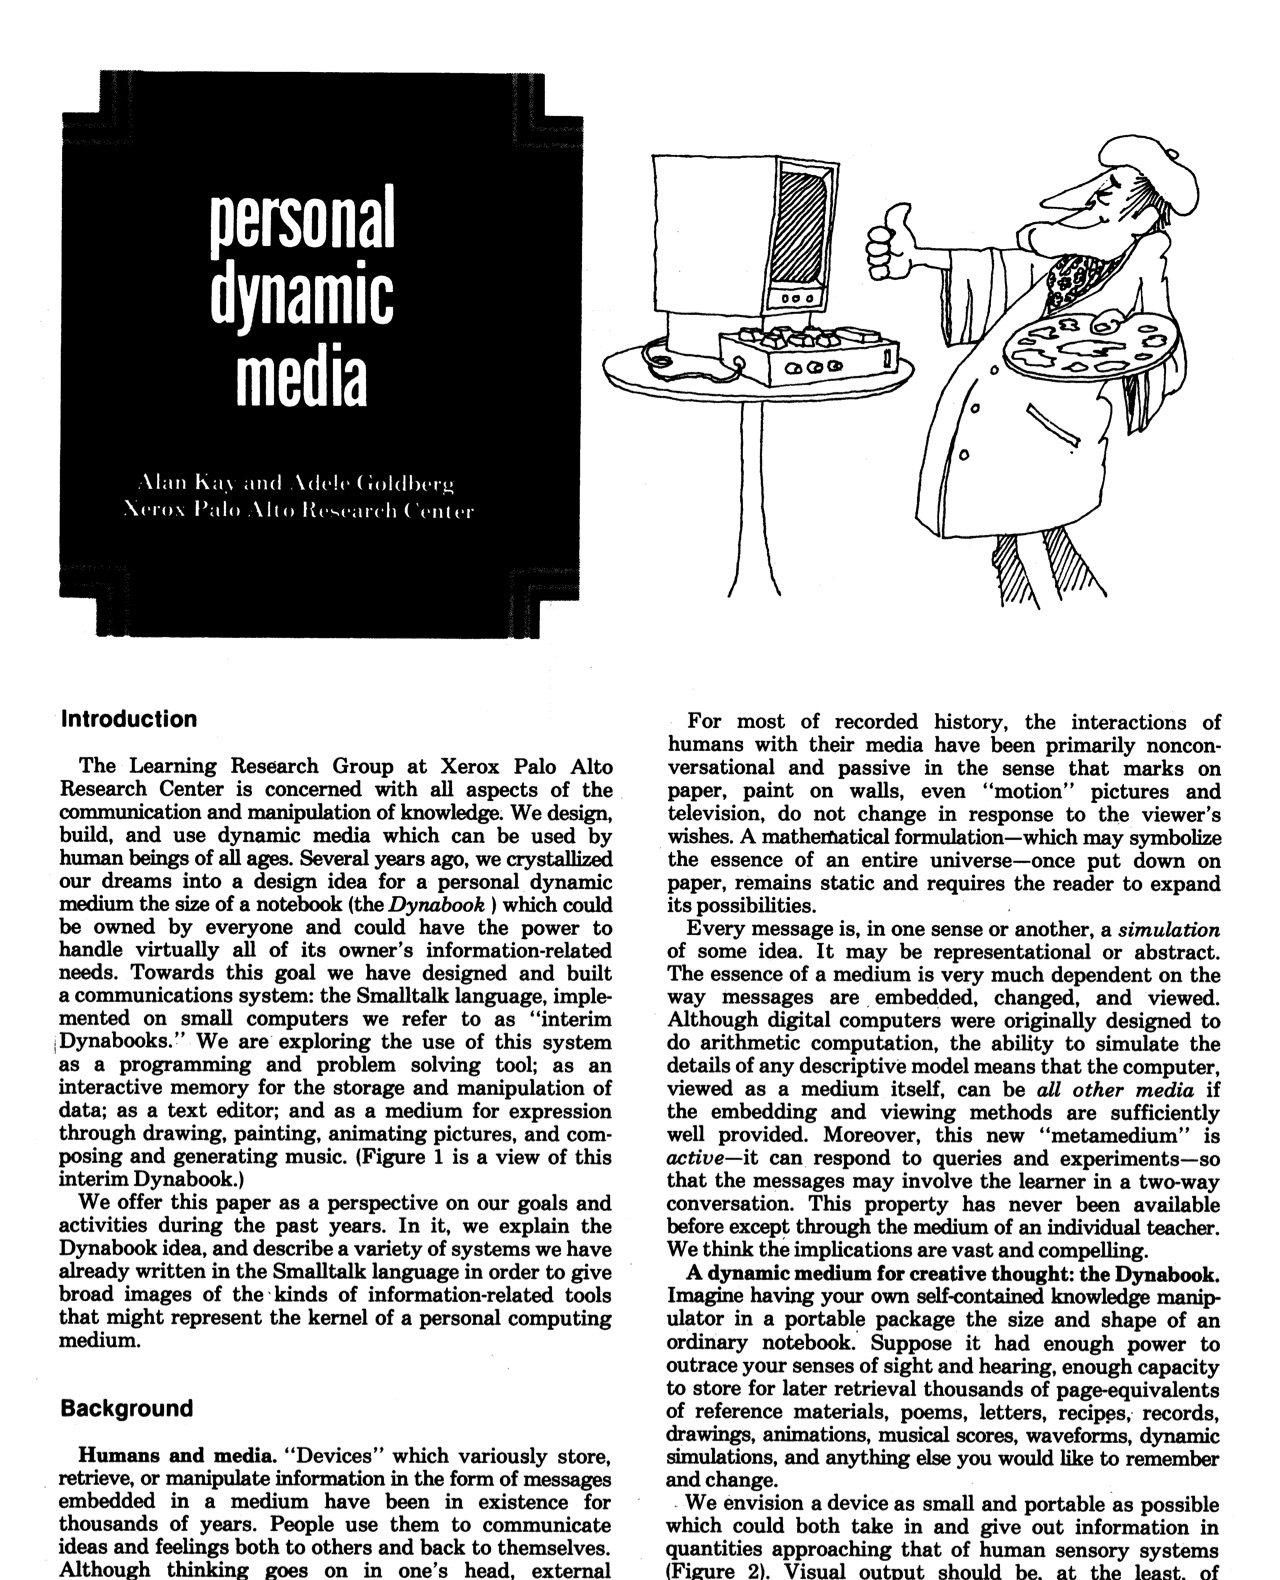
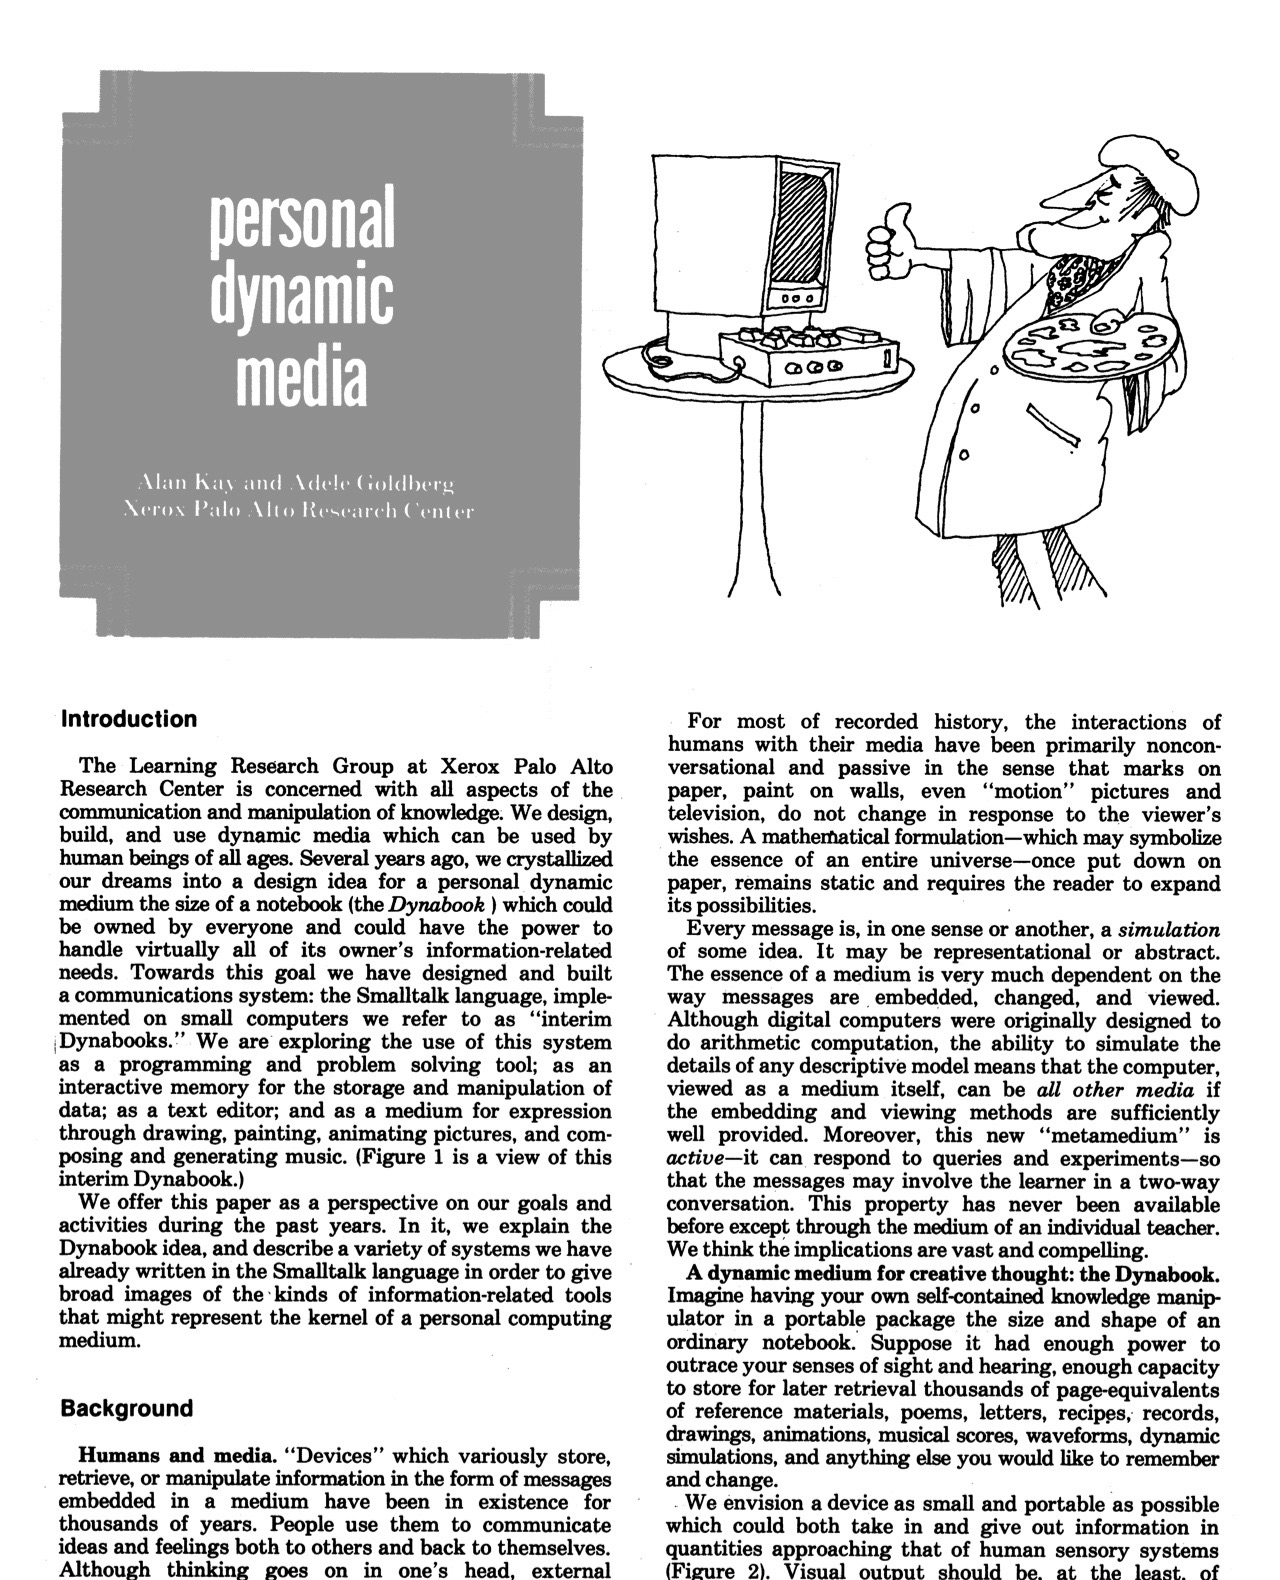
site: a github button, a softer title block, and an ending on download

Changed region(s): [[0.0312, 0.031, 0.4688, 0.4032]]

diff --git a/site/index.html b/site/index.html
@@ -4,7 +4,7 @@
 <meta charset="utf-8">
 <meta name="viewport" content="width=device-width, initial-scale=1">
 <title>Fairy Cursor</title>
-<meta name="description" content="A little fairy for your Mac's cursor. It carries your screenshots, takes notes and records your screen.">
+<meta name="description" content="A cursor that helps with little things on your Mac. It carries your screenshots, takes notes and records your screen.">
 <link rel="icon" href="icon.png">
 <style>
 /* An empty page, one cursor, and a real piece of screen to work on: part of an article that
@@ -28,7 +28,11 @@ a:focus-visible { outline: 2px solid var(--ink); outline-offset: 3px; border-rad
 .top img { width: 24px; height: 24px; }
 .top .name { font-size: 14px; font-weight: 600; letter-spacing: -0.01em; margin-right: auto; }
 .get { font-size: 13px; font-weight: 500; color: #fff; background: var(--ink); padding: 7px 15px; border-radius: 999px; transition: opacity .16s ease; }
-.get:hover { opacity: .82; }
+.get:hover, .get.hover { opacity: .82; }
+/* The source: the quieter button, always after Download. */
+.gh { display: inline-flex; align-items: center; gap: 6px; font-size: 13px; font-weight: 500; color: var(--ink); background: var(--fill); padding: 7px 14px 7px 11px; border-radius: 999px; transition: background .16s ease; }
+.gh:hover { background: #e8e8ed; }
+.gh svg { width: 15px; height: 15px; }
 
 .mid { flex: 1; display: flex; flex-direction: column; justify-content: center; padding: 12px 0 40px; }
 
@@ -48,6 +52,8 @@ a:focus-visible { outline: 2px solid var(--ink); outline-offset: 3px; border-rad
   mask-image: linear-gradient(90deg, transparent, #000 26px, #000 calc(100% - 26px), transparent), linear-gradient(180deg, transparent, #000 22px, #000 calc(100% - 130px), transparent);
   mask-composite: intersect;
 }
+.frag { transition: opacity .6s ease; }
+.frag.away { opacity: 0; }
 .frag-in { position: absolute; left: 0; top: 0; width: 620px; height: 444px; background: #fff; }
 .frag-in img { display: block; width: 620px; height: auto; will-change: transform; }
 
@@ -60,11 +66,11 @@ a:focus-visible { outline: 2px solid var(--ink); outline-offset: 3px; border-rad
 .sheet.video .face > svg, .pv > svg.inked { position: absolute; inset: 0; width: 100%; height: 100%; }
 .sheet.video .face::after { content: attr(data-len); position: absolute; right: 6px; bottom: 6px; padding: 1px 6px; border-radius: 6px; background: rgba(0,0,0,.55); color: #fff; font-size: 10px; font-weight: 500; font-variant-numeric: tabular-nums; }
 
-/* What the fairy says under the pile when a drop is refused. */
+/* A word under the pile, when there is something to say. */
 .hint { font-size: 12px; font-weight: 500; color: var(--ink-2); white-space: nowrap; opacity: 0; transition: opacity .2s ease; }
 .hint.on { opacity: 1; }
 
-.marq { border-radius: 2px; background: rgba(0,0,0,.035); box-shadow: inset 0 0 0 1px rgba(0,0,0,.3); opacity: 0; }
+.marq { border-radius: 2px; background: rgba(255,255,255,.08); box-shadow: inset 0 0 0 1px rgba(0,0,0,.5), 0 0 0 1.5px rgba(255,255,255,.95), 0 12px 30px rgba(0,0,0,.34), 0 3px 9px rgba(0,0,0,.22); opacity: 0; }
 .marq.on { opacity: 1; }
 .marq.flash { opacity: 0; transition: opacity .3s ease; }
 
@@ -117,8 +123,23 @@ a:focus-visible { outline: 2px solid var(--ink); outline-offset: 3px; border-rad
 .clock i { width: 7px; height: 7px; border-radius: 50%; background: var(--accent); animation: breathe 2.4s ease-in-out infinite; }
 @keyframes breathe { 50% { opacity: .35; } }
 
+/* Where it ends: what it is, and where to get it. The cursor comes to rest on Download. */
+.end { width: 960px; height: 460px; display: flex; align-items: center; justify-content: center; opacity: 0; pointer-events: none; transform: translateY(8px); transition: opacity .5s ease, transform .6s cubic-bezier(.22,1,.36,1); }
+.end.on { opacity: 1; pointer-events: auto; transform: none; }
+/* On a narrow screen the canvas is small; the ending is drawn larger there so it can be read and pressed. */
+.end-in { display: flex; flex-direction: column; align-items: center; transform: scale(var(--e, 1)); }
+.end img { width: 64px; height: 64px; }
+.end h1 { margin: 16px 0 0; font-size: 30px; font-weight: 600; letter-spacing: -0.022em; }
+.end p { margin: 8px 0 0; font-size: 16px; line-height: 1.45; color: var(--ink-2); text-align: center; }
+.end .go { display: flex; gap: 10px; margin: 26px 0 0; }
+.end .get { font-size: 15px; padding: 10px 22px; }
+.end .gh { font-size: 15px; padding: 10px 20px 10px 16px; }
+.end .gh svg { width: 17px; height: 17px; }
+.end button { margin: 22px 0 0; padding: 4px 8px; border: 0; background: none; font: inherit; font-size: 12px; color: var(--ink-3); cursor: pointer; }
+.end button:hover { color: var(--ink); }
+
 /* The cursor: a Figma-style arrow. Its tip is the hot spot; the body leans as it moves. */
-.cursor { width: 0; height: 0; z-index: 9; will-change: transform; }
+.cursor { width: 0; height: 0; z-index: 9; will-change: transform; pointer-events: none; }
 .cursor svg { position: absolute; left: -3px; top: -3px; transform-origin: 3px 3px; filter: drop-shadow(0 2px 3px rgba(0,0,0,.26)); transition: opacity .16s ease; }
 .cursor .nib { position: absolute; width: 13px; height: 13px; margin: -6.5px; border-radius: 50%; background: var(--accent); border: 2px solid #fff; box-shadow: 0 1px 3px rgba(0,0,0,.3); opacity: 0; transition: opacity .16s ease; }
 .cursor[data-tool] svg { opacity: 0; }
@@ -139,6 +160,8 @@ a:focus-visible { outline: 2px solid var(--ink); outline-offset: 3px; border-rad
 .dots { display: flex; justify-content: center; gap: 6px; margin: 16px 0 0; }
 .dots i { width: 5px; height: 5px; border-radius: 999px; background: #d2d2d7; transition: width .32s cubic-bezier(.22,1,.36,1), background .2s ease; }
 .dots i.on { width: 18px; background: var(--ink); }
+.dots { transition: opacity .3s ease; }
+.dots.off { opacity: 0; }
 
 .foot { display: flex; justify-content: center; gap: 8px; padding: 0 0 28px; font-size: 12px; color: var(--ink-3); }
 .foot a:hover { color: var(--ink); }
@@ -157,10 +180,11 @@ a:focus-visible { outline: 2px solid var(--ink); outline-offset: 3px; border-rad
     <img src="icon.png" alt="">
     <span class="name">Fairy Cursor</span>
     <a class="get" href="fairy-cursor.zip">Download</a>
+    <a class="gh" href="https://github.com/Rrrima/fairy-cursor"><svg viewBox="0 0 24 24" fill="currentColor" aria-hidden="true"><path d="M12 .5C5.65.5.5 5.65.5 12c0 5.08 3.29 9.39 7.86 10.91.58.1.79-.25.79-.56v-2c-3.2.7-3.87-1.36-3.87-1.36-.52-1.33-1.28-1.68-1.28-1.68-1.04-.71.08-.7.08-.7 1.15.08 1.76 1.19 1.76 1.19 1.03 1.76 2.69 1.25 3.35.96.1-.74.4-1.25.73-1.54-2.55-.29-5.24-1.28-5.24-5.69 0-1.26.45-2.28 1.18-3.09-.12-.29-.51-1.46.11-3.05 0 0 .96-.31 3.16 1.18a10.9 10.9 0 0 1 5.76 0c2.2-1.49 3.16-1.18 3.16-1.18.63 1.59.23 2.76.11 3.05.74.81 1.18 1.83 1.18 3.09 0 4.42-2.69 5.39-5.26 5.68.41.36.78 1.06.78 2.14v3.17c0 .31.21.67.8.56A11.51 11.51 0 0 0 23.5 12C23.5 5.65 18.35.5 12 .5Z"/></svg>GitHub</a>
   </header>
 
   <div class="mid">
-    <div class="stage" role="img" aria-label="On the first page of a 1977 paper, a cursor takes a screenshot and carries it, drops it into a text box with a double-click, shakes one away, writes a note that remembers the page it was made on, and records the screen, scrolling the page, zooming in, highlighting a line and drawing a smile while a small preview shows the video, into a video it carries: one text box refuses it, the next takes it.">
+    <div class="stage" role="img" aria-label="On the first page of a 1977 paper, a cursor takes a screenshot and carries it, drops it into a text box with a double-click, shakes one away, writes a note that remembers the page it was made on, and records the screen, scrolling the page, zooming in, highlighting a line and drawing a smile while a small preview shows the video, into a video it carries and drops into a text box. It ends on the name, Fairy Cursor, a cursor that helps with little things, free and open source, with the cursor resting on the Download button.">
       <div class="canvas">
         <div class="frag"><div class="frag-in"><img src="paper.jpg" alt="" draggable="false"></div></div>
         <div class="fx">
@@ -174,6 +198,15 @@ a:focus-visible { outline: 2px solid var(--ink); outline-offset: 3px; border-rad
           <div class="sheets"></div>
           <div class="hint"></div>
         </div>
+        <div class="end">
+          <div class="end-in">
+          <img src="icon.png" alt="">
+          <h1>Fairy Cursor</h1>
+          <p>A cursor that helps with little things.<br>Free and open source.</p>
+          <div class="go"><a class="get" href="fairy-cursor.zip">Download</a><a class="gh" href="https://github.com/Rrrima/fairy-cursor"><svg viewBox="0 0 24 24" fill="currentColor" aria-hidden="true"><path d="M12 .5C5.65.5.5 5.65.5 12c0 5.08 3.29 9.39 7.86 10.91.58.1.79-.25.79-.56v-2c-3.2.7-3.87-1.36-3.87-1.36-.52-1.33-1.28-1.68-1.28-1.68-1.04-.71.08-.7.08-.7 1.15.08 1.76 1.19 1.76 1.19 1.03 1.76 2.69 1.25 3.35.96.1-.74.4-1.25.73-1.54-2.55-.29-5.24-1.28-5.24-5.69 0-1.26.45-2.28 1.18-3.09-.12-.29-.51-1.46.11-3.05 0 0 .96-.31 3.16 1.18a10.9 10.9 0 0 1 5.76 0c2.2-1.49 3.16-1.18 3.16-1.18.63 1.59.23 2.76.11 3.05.74.81 1.18 1.83 1.18 3.09 0 4.42-2.69 5.39-5.26 5.68.41.36.78 1.06.78 2.14v3.17c0 .31.21.67.8.56A11.51 11.51 0 0 0 23.5 12C23.5 5.65 18.35.5 12 .5Z"/></svg>GitHub</a></div>
+          <button type="button">Watch again</button>
+          </div>
+        </div>
         <div class="marq"></div>
         <div class="cursor">
           <svg width="26" height="26" viewBox="0 0 26 26" aria-hidden="true"><path d="M4.2 4.2 9.3 20.2 12.2 13.1 19.4 10.2Z" fill="#fff" stroke="#fff" stroke-width="5.4" stroke-linejoin="round"/><path d="M4.2 4.2 9.3 20.2 12.2 13.1 19.4 10.2Z" fill="#1d1d1f" stroke="#1d1d1f" stroke-width="2.6" stroke-linejoin="round"/></svg>
@@ -186,7 +219,7 @@ a:focus-visible { outline: 2px solid var(--ink); outline-offset: 3px; border-rad
     <div class="dots" aria-hidden="true"></div>
   </div>
 
-  <footer class="foot"><span>macOS 26</span></footer>
+  <footer class="foot"><span>macOS 26</span><span>·</span><a href="https://rrrima.github.io/">Made by Rima</a></footer>
 </div>
 
 <script>
@@ -202,11 +235,12 @@ a:focus-visible { outline: 2px solid var(--ink); outline-offset: 3px; border-rad
   const inkEl = $('.ink'), recEl = $('.rec'), txtEl = $('.note .txt');
   const canvas = $('.canvas'), fragIn = $('.frag-in'), pageImg = $('.frag-in img'), pvEl = $('.pv');
   const F = { x: 40, y: 8 };      // where the piece of screen sits on the canvas
+  const fragEl = $('.frag'), endEl = $('.end'), endGet = $('.end .get'), againEl = $('.end button');
   const capEl = $('.cap'), nmEl = $('.cap .nm'), ksEl = $('.cap .ks'), dotsEl = $('.dots');
 
   /* The canvas answers to the width of its own column. */
   let S = 1;
-  new ResizeObserver(([e]) => { S = e.contentRect.width / W; stage.style.setProperty('--s', S); }).observe(stage);
+  new ResizeObserver(([e]) => { S = e.contentRect.width / W; stage.style.setProperty('--s', S); stage.style.setProperty('--e', clamp(.62 / S, 1, 1.7)); }).observe(stage);
   /* Where a real element sits, in the canvas's own pixels. */
   const rectOf = node => {
     const r = node.getBoundingClientRect(), o = canvas.getBoundingClientRect();
@@ -399,6 +433,7 @@ a:focus-visible { outline: 2px solid var(--ink); outline-offset: 3px; border-rad
     fieldEl.className = 'field'; field2El.className = 'field tall'; hintEl.className = 'hint';
     recEl.className = 'rec'; clockBox.className = 'clock'; pvEl.className = 'pv'; inkEl.innerHTML = ''; pvInk.innerHTML = ''; inkEl.style.opacity = 1; Y.t = 0;
     R.zoom = 1; R.follow = false; R.cx = D.x + D.w / 2; R.cy = D.y + D.h / 2;
+    endEl.classList.remove('on'); endGet.classList.remove('hover'); fragEl.classList.remove('away'); dotsEl.classList.remove('off');
   }
   const at = (node, x, y) => { node.style.left = x + 'px'; node.style.top = y + 'px'; };
 
@@ -448,7 +483,7 @@ a:focus-visible { outline: 2px solid var(--ink); outline-offset: 3px; border-rad
       at(noteEl, 350, 196); noteEl.classList.add('open');
       await sleep(240); key(0, false);
       await glide(640, 270, 620);
-      for (const ch of 'A medium that answers back. We still don’t have it.') { txtEl.textContent += ch; await sleep(ch === ' ' ? 70 : 32 + Math.random() * 38); }
+      for (const ch of 'A medium that answers back. Read this part again.') { txtEl.textContent += ch; await sleep(ch === ' ' ? 70 : 32 + Math.random() * 38); }
       await sleep(900);
       noteEl.classList.remove('open');
       await sleep(300);
@@ -517,35 +552,35 @@ a:focus-visible { outline: 2px solid var(--ink); outline-offset: 3px; border-rad
       await glide(330, 300, 900);
       await glide(640, 110, 1000);
 
-      // one text box says no…
+      // double-click a text box and the video goes in
       await cap(4, 'Drop it', ['double-click']);
-      at(fieldEl, 690, 130); fieldEl.className = 'field on';
-      await sleep(300);
-      await glide(790, 156);
-      tap(420); await dbl();
-      await sleep(200);
-      video.no = clock; hintEl.textContent = "this field doesn't take videos"; hintEl.classList.add('on');
-      await sleep(1700);
-      hintEl.classList.remove('on'); fieldEl.classList.remove('on');
-
-      // …the next one takes it
       at(field2El, 690, 250); field2El.classList.add('on');
       await sleep(350);
       await glide(800, 284);
       tap(420); await dbl();
       field2El.classList.add('has'); place(video, 702, 262, .5);
       await glide(860, 350, 700);
-      await sleep(1500);
+      await sleep(1300);
 
-      fx.classList.add('out'); capEl.classList.add('swap'); Y.t = 0;
-      await sleep(550);
+      // the end: the page clears, the name comes up, and the cursor goes to rest on Download
+      fx.classList.add('out'); capEl.classList.add('swap'); fragEl.classList.add('away'); Y.t = 0;
+      dotsEl.classList.add('off');
+      await sleep(600);
+      endEl.classList.add('on');
+      await sleep(700);
+      const b = rectOf(endGet);
+      await glide(b.x + b.w * .62, b.y + b.h * .62, 900);
+      endGet.classList.add('hover');
+      await new Promise(r => againEl.addEventListener('click', r, { once: true }));
+      endEl.classList.remove('on');
+      await sleep(450);
     }
   }
 
   /* With reduced motion the page simply rests: a cursor, and what it does in words. */
   if (matchMedia('(prefers-reduced-motion: reduce)').matches) {
-    C.x.x = 760; C.y.x = 230; render();
-    nmEl.textContent = 'Screenshots, notes and recording, at the cursor'; capEl.classList.remove('swap');
+    fragEl.classList.add('away'); endEl.classList.add('on'); againEl.hidden = true; dotsEl.classList.add('off');
+    requestAnimationFrame(() => { const b = rectOf(endGet); C.x.x = b.x + b.w * .62; C.y.x = b.y + b.h * .62; render(); });
     return;
   }
   run();
